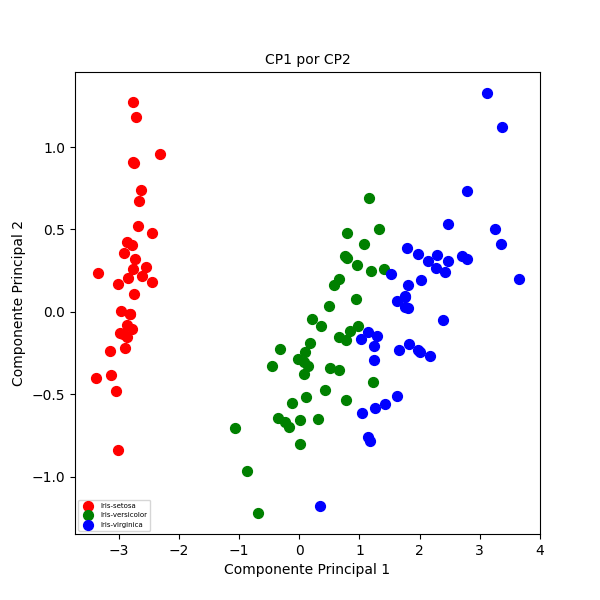
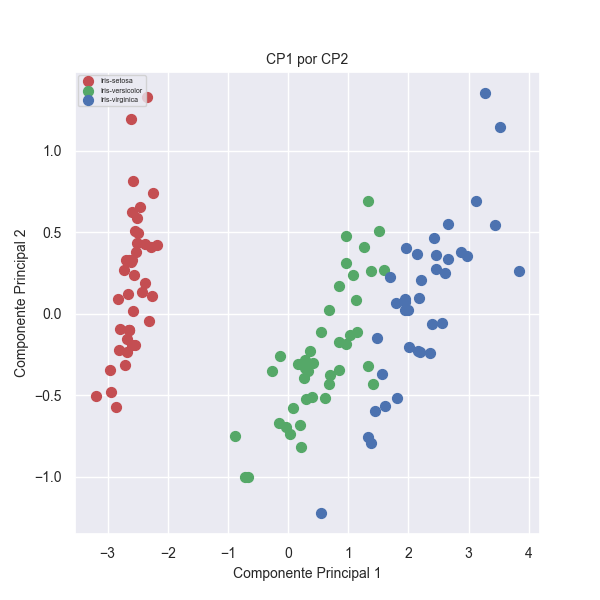
REorganização do código em funções para melhorar legibilidade e possível reuso.

diff --git a/main2.py b/main2.py
@@ -1,97 +1,91 @@
 import matplotlib.pyplot as plt
-import numpy as np
 import pandas as pd
 import seaborn as sns
 from ucimlrepo import fetch_ucirepo 
 from sklearn.model_selection import train_test_split
 from sklearn.decomposition import PCA
-  
-# fetch dataset 
-iris = fetch_ucirepo(id=53) 
-  
-# data (as pandas dataframes) 
-X = iris.data.features 
-y = iris.data.targets 
-  
-df = iris.data.features.copy()
-df['target'] = iris.data.targets
-
-train_set, test_set = train_test_split(df, test_size=0.2) #, random_state=0)
-
-x_train = train_set.drop(columns=['target'])
-y_train = train_set['target'].copy()
-
-x_test = test_set.drop(columns=['target'])
-y_test = test_set['target'].copy()
-
-y_train_copy = y_train.str.replace(r'^Iris-', '', regex=True)
-y_test_copy = y_test.str.replace(r'Iris-', '', regex=True)
-
-y_class_count = dict(y_train_copy.value_counts())
-y_samples_sum = sum(y_class_count.values())
 
 
-# print("Ocorrência de Iris-virginica: {0}".format(y_class_count['virginica']/y_samples_sum))
-# print("Ocorrência de Iris-setosa: {0}".format(y_class_count['setosa']/y_samples_sum))
-# print("Ocorrência de Iris-versicolor: {0}".format(y_class_count['versicolor']/y_samples_sum))
-
-# Transformar as classes em colunas binárias
-y_train_encoded = pd.get_dummies(y_train_copy, prefix='class')
-y_test_encoded = pd.get_dummies(y_test_copy, prefix='class')
-
-df_one_hot = pd.get_dummies(df['target'], prefix='class')
-df = pd.concat([df, df_one_hot], axis=1)
-
-df_numeric = df.drop(columns=['target'])
-
-#gera uma matriz de correlação entre as variáveis independentes
-correlation_matrix = df_numeric.corr()
-
-#plota um heatmap da matriz, para facilitar a visualização
-# plt.figure(figsize=(12, 10))  # Ajuste do tamanho da figura para se adequar melhor
-# sns.set_theme(font_scale=1.2)  # Ajuste do tamanho da fonte
-# hm = sns.heatmap(correlation_matrix,
-#                  cbar=True,
-#                  annot=True,
-#                  square=True,
-#                  fmt='.2f',  # Definindo o formato dos valores
-#                  annot_kws={'size': 10},  # Ajustando o tamanho do texto de anotações
-#                  linewidths=.5,  # Reduzindo a espessura das linhas entre blocos
-#                  cmap="coolwarm",  # Mudando para uma paleta de cores mais clara
-#                  yticklabels=df_numeric.columns,
-#                  xticklabels=df_numeric.columns)
-#
-# plt.title("Matriz de Correlação", fontsize=16)
-# plt.tight_layout()
-# plt.savefig('mat_corr.png')
-
-pca = PCA(n_components=4)
-x_train_pca = pca.fit_transform(x_train)
-x_test_pca = pca.transform(x_test)
-
-df_pca = pd.DataFrame(data=x_train_pca)
-print(df_pca.head())
+def load_and_prepare_data():
+    """Carrega o conjunto de dados Iris e prepara o DataFrame."""
+    iris = fetch_ucirepo(id=53)
+    X = iris.data.features
+    y = iris.data.targets
+    df = X.copy()
+    df['target'] = y
+    return df
 
 
-targets = ['setosa', 'versicolor', 'virginica']
-labels = ["Iris-setosa", "Iris-versicolor", "Iris-virginica"]
-colors = ['r', 'g', 'b']
+def split_data(df):
+    """Divide os dados em conjuntos de treino e teste."""
+    train_set, test_set = train_test_split(df, test_size=0.2)
+    x_train = train_set.drop(columns=['target'])
+    y_train = train_set['target'].copy()
+    x_test = test_set.drop(columns=['target'])
+    y_test = test_set['target'].copy()
 
-fig = plt.figure(figsize = (6,6))
-ax = fig.add_subplot(1,1,1)
-ax.set_xlabel('Componente Principal 1', fontsize = 10)
-ax.set_ylabel('Componente Principal 2', fontsize = 10)
-ax.set_title('CP1 por CP2', fontsize = 10)
+    # Removendo o prefixo 'Iris-' das classes
+    y_train = y_train.str.replace(r'^Iris-', '', regex=True)
+    y_test = y_test.str.replace(r'^Iris-', '', regex=True)
 
-for target, color, label in zip(targets, colors, labels):
-    indicesToKeep = (y_train_copy == target).values
-    ax.scatter((df_pca.loc[indicesToKeep, 0])
-               ,(df_pca.loc[indicesToKeep, 1]),
-               c = color,
-               label = label,
-               s=50)
+    return x_train, y_train, x_test, y_test
 
-ax.legend(labels, prop={'size': 5})
-ax.tick_params(axis='both', which='major', labelsize=10)
-ax.tick_params(axis='both', which='minor', labelsize=8)
-plt.savefig('pca_iris1.png')
+
+def encode_classes(df):
+    """Aplica one-hot encoding às classes no DataFrame."""
+    df_one_hot = pd.get_dummies(df['target'], prefix='class')
+    df_encoded = pd.concat([df, df_one_hot], axis=1)
+    return df_encoded.drop(columns=['target'])
+
+
+def plot_correlation_matrix(df):
+    """Gera e plota a matriz de correlação para o DataFrame fornecido."""
+    correlation_matrix = df.corr()
+    plt.figure(figsize=(12, 10))
+    sns.set_theme(font_scale=1.2)
+    sns.heatmap(correlation_matrix, cbar=True, annot=True, square=True, fmt='.2f',
+                annot_kws={'size': 10}, linewidths=.5, cmap="coolwarm",
+                yticklabels=df.columns, xticklabels=df.columns)
+    plt.title("Matriz de Correlação", fontsize=16)
+    plt.tight_layout()
+    plt.savefig('mat_corr.png')
+
+
+def apply_pca_and_plot(x_train, y_train):
+    """Aplica PCA nos dados de treino e plota as duas primeiras componentes principais."""
+    pca = PCA(n_components=4)
+    x_train_pca = pca.fit_transform(x_train)
+
+    df_pca = pd.DataFrame(data=x_train_pca, columns=[f'PC{i + 1}' for i in range(4)])
+
+    targets = ['setosa', 'versicolor', 'virginica']
+    labels = ["Iris-setosa", "Iris-versicolor", "Iris-virginica"]
+    colors = ['r', 'g', 'b']
+
+    fig = plt.figure(figsize=(6, 6))
+    ax = fig.add_subplot(1, 1, 1)
+    ax.set_xlabel('Componente Principal 1', fontsize=10)
+    ax.set_ylabel('Componente Principal 2', fontsize=10)
+    ax.set_title('CP1 por CP2', fontsize=10)
+
+    for target, color, label in zip(targets, colors, labels):
+        indicesToKeep = (y_train == target).values
+        ax.scatter(df_pca.loc[indicesToKeep, 'PC1'],
+                   df_pca.loc[indicesToKeep, 'PC2'],
+                   c=color, label=label, s=50)
+
+    ax.legend(labels, prop={'size': 5})
+    ax.tick_params(axis='both', which='major', labelsize=10)
+    ax.tick_params(axis='both', which='minor', labelsize=8)
+    plt.savefig('pca_iris1.png')
+
+def main():
+    # Execução do pipeline
+    df = load_and_prepare_data()
+    x_train, y_train, x_test, y_test = split_data(df)
+    df_encoded = encode_classes(df)
+    plot_correlation_matrix(df_encoded)
+    apply_pca_and_plot(x_train, y_train)
+
+if __name__ == "__main__":
+    main()
